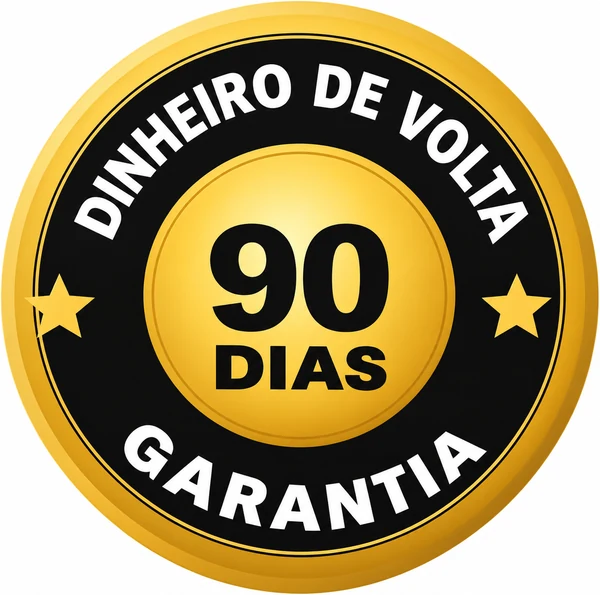
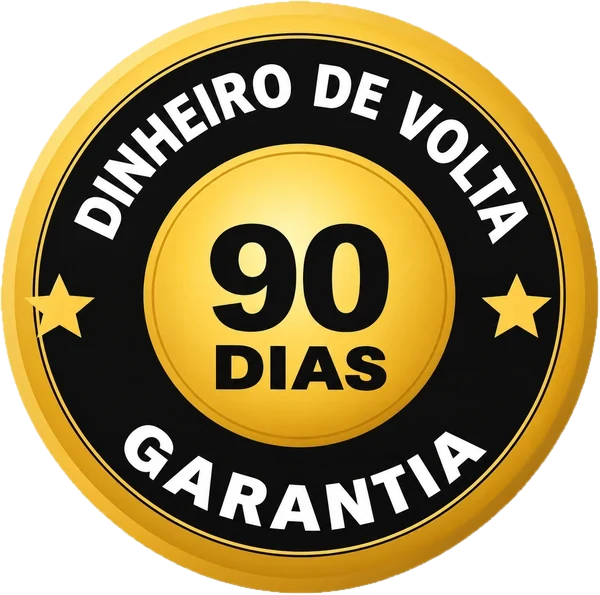
P282 BR: transparent 90-day seal + small seal CSS (Evan 12 Nov post-live)

diff --git a/sinuvida-br/art.css b/sinuvida-br/art.css
@@ -918,3 +918,9 @@
     box-sizing: border-box !important;
   }:where(#sinuvida-br-art-root) .bsv{display:block;margin:0 0 4px;background:#fff;font-family:Inter,system-ui,-apple-system,'Segoe UI',Roboto,sans-serif}:where(#sinuvida-br-art-root) .bsv-bar{display:grid;grid-template-columns:36px 1fr 36px;align-items:center;height:56px;padding:0 max(14px,calc(50% - 573px));border-bottom:1px solid #E3E6E8}:where(#sinuvida-br-art-root) .bsv-menu{display:block;width:22px;height:2px;background:#14171A;border-radius:1px;box-shadow:0 -7px 0 #14171A,0 7px 0 #14171A}:where(#sinuvida-br-art-root) .bsv-logo{justify-self:center;font-family:Merriweather,Georgia,'Times New Roman',serif;font-weight:900;font-size:22px;line-height:1;letter-spacing:-.01em;white-space:nowrap;color:#14171A;white-space:nowrap}:where(#sinuvida-br-art-root) .bsv-logo em{font-style:normal;color:#B3121F}:where(#sinuvida-br-art-root) .bsv-srch{justify-self:end;position:relative;display:block;width:13px;height:13px;border:2px solid #14171A;border-radius:50%;box-sizing:content-box;margin:-4px 6px 0 0}:where(#sinuvida-br-art-root) .bsv-srch::after{content:"";position:absolute;left:13px;top:13px;width:7px;height:2px;background:#14171A;border-radius:1px;transform:rotate(45deg);transform-origin:0 50%}:where(#sinuvida-br-art-root) .bsv-crumb{padding:12px max(20px,calc(50% - 573px)) 0}:where(#sinuvida-br-art-root) .bsv-crumb ol{display:flex;flex-wrap:nowrap;align-items:baseline;gap:6px;margin:0!important;padding:0!important;list-style:none;overflow:hidden}:where(#sinuvida-br-art-root) .bsv-crumb li{display:flex;align-items:baseline;gap:6px;margin:0!important;padding:0!important;min-width:0;white-space:nowrap}:where(#sinuvida-br-art-root) .bsv-crumb li span{font-size:14px;font-weight:500;color:#59616A}:where(#sinuvida-br-art-root) .bsv-crumb li:last-child span{font-weight:600;color:#14171A;overflow:hidden;text-overflow:ellipsis}:where(#sinuvida-br-art-root) .bsv-crumb li+li::before{content:"\203A";font-size:14px;color:#8C949C}:where(#sinuvida-br-art-root) .bsv-sec{display:flex;gap:20px;padding:11px max(14px,calc(50% - 573px));border-bottom:1px solid #E3E6E8;font-size:15px;font-weight:500;line-height:1.3;color:#33383D;white-space:nowrap;overflow:hidden}:where(#sinuvida-br-art-root) .bsv-sec b{font-weight:700;color:#B3121F}:where(#sinuvida-br-art-root) .bsv-kick{display:block;margin:14px 0 6px;padding:0 10px;font-family:Inter,system-ui,sans-serif;font-size:14px;font-weight:700;line-height:1.3;letter-spacing:.06em;text-transform:uppercase;color:#B3121F}:where(#sinuvida-br-art-root) .bsv-by{display:flex;align-items:center;gap:12px;margin:4px 0 14px;padding:0 10px;font-family:Inter,system-ui,sans-serif;line-height:1.35}:where(#sinuvida-br-art-root) .bsv-ph{display:block;width:48px;height:48px;aspect-ratio:1/1;border-radius:50%;object-fit:cover;flex:none;box-shadow:0 0 0 1px #E3E6E8}:where(#sinuvida-br-art-root) .bsv-n{display:block;font-size:16px;color:#33383D}:where(#sinuvida-br-art-root) .bsv-n b{font-weight:700;color:#14171A}:where(#sinuvida-br-art-root) .bsv-r{display:block;font-size:14px;color:#59616A}:where(#sinuvida-br-art-root) .snv-ph{display:block;width:100%;max-width:1170px;margin:0 auto;box-sizing:border-box;overflow:hidden;background:#fff}:where(#sinuvida-br-art-root) .snv-ph .bsv{margin:0 0 6px}:where(#sinuvida-br-art-root) .snv-by.meta{display:block}:where(#sinuvida-br-art-root) .snv-imglink{display:block;cursor:pointer}:where(#sinuvida-br-art-root) .adv-aside .pbox{position:static !important;top:auto !important}:where(#sinuvida-br-art-root) .article .text p, :where(#sinuvida-br-art-root) .article .text li, :where(#sinuvida-br-art-root) .review p, :where(#sinuvida-br-art-root) .comment__bubble p{font-size:18px !important;line-height:1.6 !important}
 #sinuvida-br-art-root > section{margin-left:auto;margin-right:auto}
+
+
+
+
+#sinuvida-br-art-root .figure img[src*="sinuvida-br/020."] { display: block; width: 190px; max-width: 60%; height: auto; margin: 0 auto; border-radius: 0; filter: drop-shadow(0 6px 14px rgba(0,0,0,.18)); }
+@media (min-width: 1000px) { #sinuvida-br-art-root .figure img[src*="sinuvida-br/020."] { width: 210px; } }
